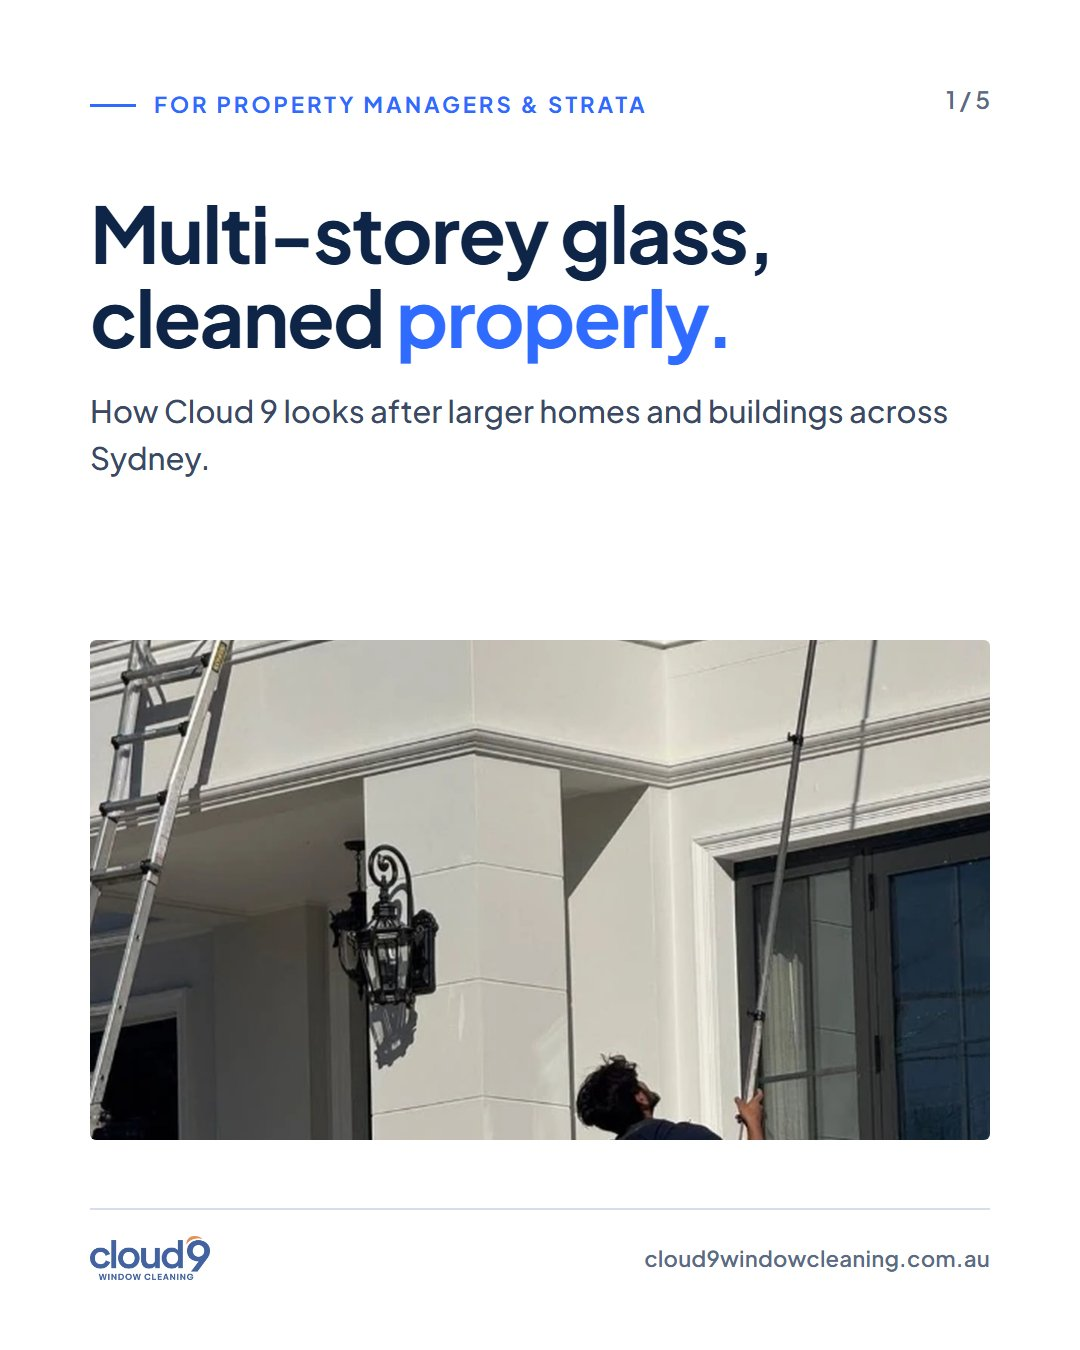
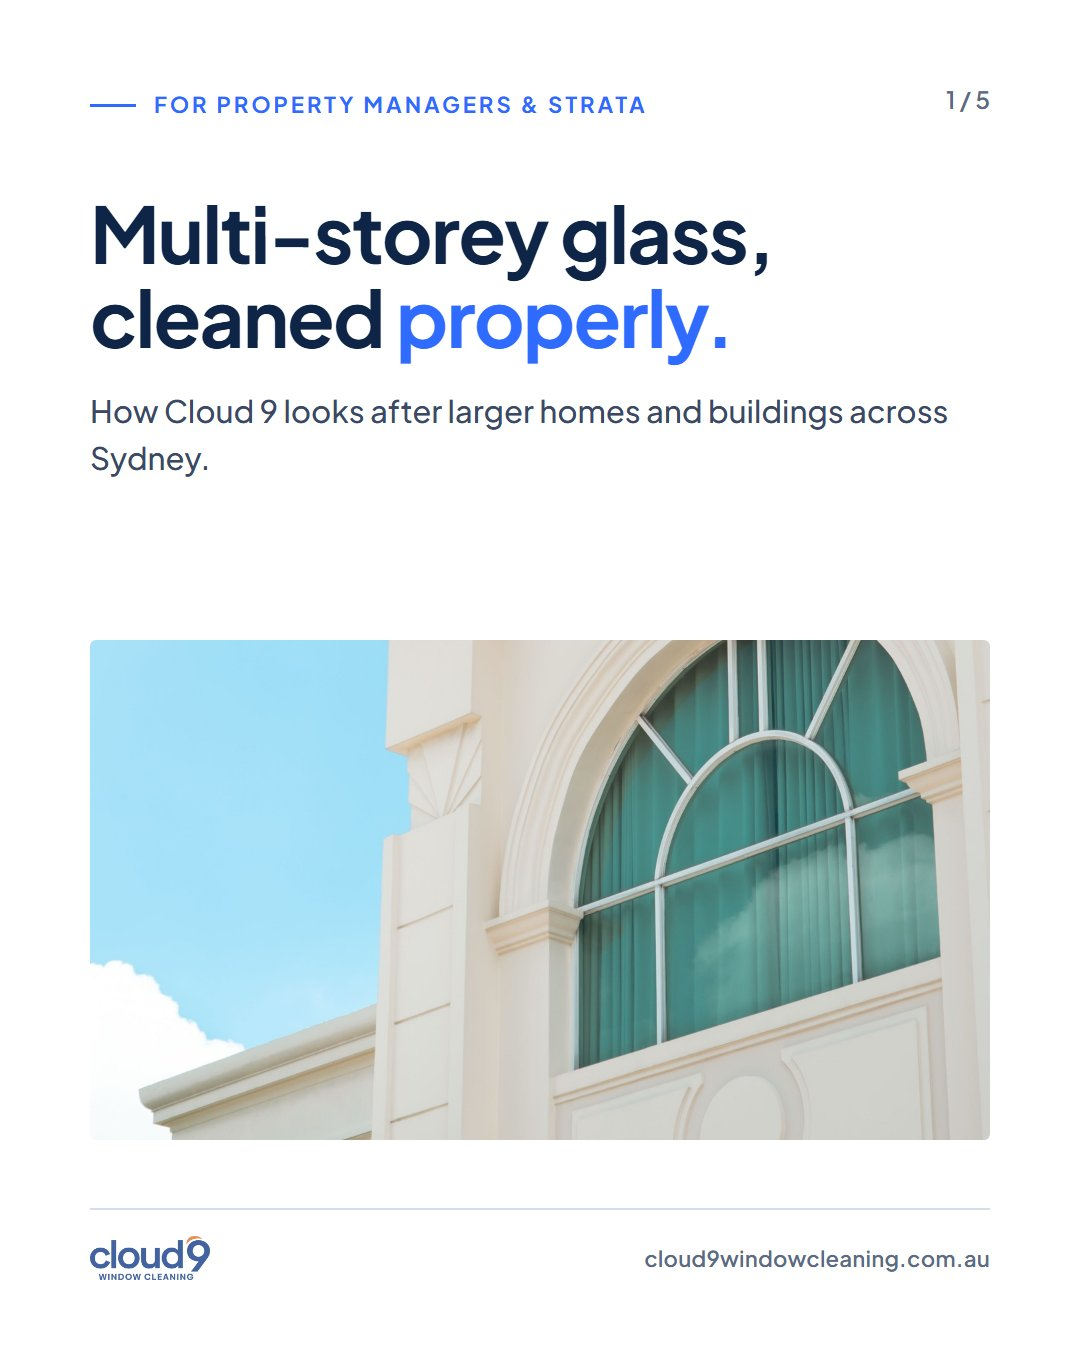
Cloud 9 LinkedIn sample: new cover photo on post 2 slide 1

Changed region(s): [[0.0611, 0.4667, 0.9167, 0.8711]]

diff --git a/cloud9-linkedin/index.html b/cloud9-linkedin/index.html
@@ -88,7 +88,7 @@ img{display:block;max-width:100%}
 <script>
 const LOGO='img/logo-blue.png';
 const POSTS=[
- {tag:'Image post',type:'Company milestone',img:'img/post-1-milestone.jpg?v=5',
+ {tag:'Image post',type:'Company milestone',img:'img/post-1-milestone.jpg?v=6',
   cap:`1,000 five-star reviews.
 
 This milestone belongs to our team and to every Sydney homeowner who trusted us with their home.
@@ -99,7 +99,7 @@ Thank you for your support. We look forward to the next 1,000.
 
 #Sydney #CustomerExperience`},
  {tag:'Document carousel',type:'Service explainer',doc:'Multi-storey glass, cleaned properly',
-  imgs:[1,2,3,4,5].map(i=>`img/post-2-slide-${i}.jpg?v=5`),
+  imgs:[1,2,3,4,5].map(i=>`img/post-2-slide-${i}.jpg?v=6`),
   cap:`Looking after a larger home or building in Sydney?
 
 Here is how our team cleans multi-storey glass safely and properly:
@@ -113,7 +113,7 @@ Quarterly, triannual and biannual maintenance plans are available.
 Call 0485 013 333 or visit cloud9windowcleaning.com.au
 
 #PropertyManagement #Strata #Sydney`},
- {tag:'Image post',type:'Industry insight',img:'img/post-3-pure-water.jpg?v=5',
+ {tag:'Image post',type:'Industry insight',img:'img/post-3-pure-water.jpg?v=6',
   cap:`Why we clean glass with pure water.
 
 Tap water carries minerals. When it dries on glass, those minerals can stay behind as spots.
@@ -123,7 +123,7 @@ Our deionised water system filters the water pure before it reaches your windows
 The result is streak-free glass that stays clearer for longer, with a 100% chemical-free process.
 
 #WindowCleaning #Sydney #Sustainability`},
- {tag:'Image post',type:'Meet the team',img:'img/post-4-meet-ryan.jpg?v=5',
+ {tag:'Image post',type:'Meet the team',img:'img/post-4-meet-ryan.jpg?v=6',
   cap:`Meet Ryan, our Operations Manager.
 
 Ryan looks after our day-to-day operations across Sydney, keeping our team organised and our clients looked after.
